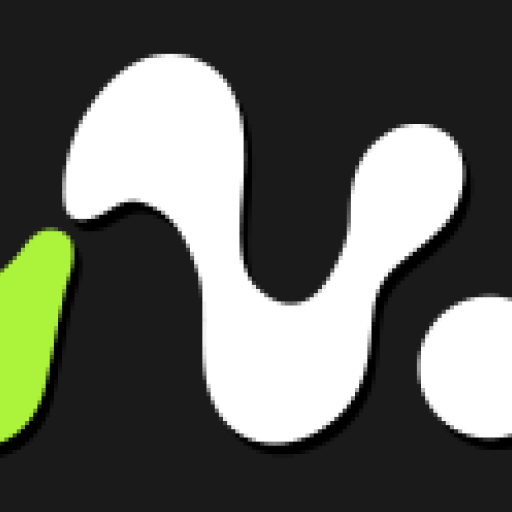
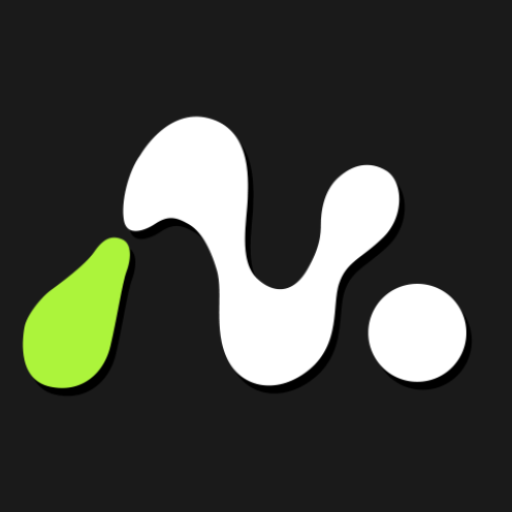
앱 아이콘 이미지 수정 / CustomChromeClient 추가

diff --git a/app/src/main/java/kr/co/menovel/component/CustomChromeClient.java b/app/src/main/java/kr/co/menovel/component/CustomChromeClient.java
@@ -1,0 +1,39 @@
+package kr.co.menovel.component;
+
+import android.content.Intent;
+import android.net.Uri;
+import android.os.Message;
+import android.webkit.WebChromeClient;
+import android.webkit.WebView;
+import android.webkit.WebViewClient;
+
+import kr.co.menovel.MainActivity;
+
+public class CustomChromeClient extends WebChromeClient {
+    private MainActivity act;
+
+    public CustomChromeClient(MainActivity act) {
+        this.act = act;
+    }
+
+    // 새창 외부 브라우저 열기
+    @Override
+    public boolean onCreateWindow(WebView view, boolean isDialog, boolean isUserGesture, Message resultMsg) {
+        WebView newWebView = new WebView(act);
+        view.addView(newWebView);
+        WebView.WebViewTransport transport = (WebView.WebViewTransport) resultMsg.obj;
+        transport.setWebView(newWebView);
+        resultMsg.sendToTarget();
+
+        newWebView.setWebViewClient(new WebViewClient() {
+            @Override
+            public boolean shouldOverrideUrlLoading(WebView view, String url) {
+                Intent browserIntent = new Intent(Intent.ACTION_VIEW);
+                browserIntent.setData(Uri.parse(url));
+                act.startActivity(browserIntent);
+                return true;
+            }
+        });
+        return true;
+    }
+}

diff --git a/app/src/main/java/kr/co/menovel/MainActivity.java b/app/src/main/java/kr/co/menovel/MainActivity.java
@@ -58,6 +58,7 @@ import java.util.HashMap;
 import java.util.Hashtable;
 import java.util.Map;
 
+import kr.co.menovel.component.CustomChromeClient;
 import kr.co.menovel.component.CustomWebViewClient;
 import kr.co.menovel.kakao.KakaoLoginCallback;
 import kr.co.menovel.kakao.KakaoSessionCallback;
@@ -121,6 +122,7 @@ public class MainActivity extends AppCompatActivity implements KakaoLoginCallbac
         webView.getSettings().setSupportMultipleWindows(true);
         webView.getSettings().setTextZoom(100);
         webView.setWebViewClient(new CustomWebViewClient(webView, layout_loading, layout_error_page));
+        webView.setWebChromeClient(new CustomChromeClient(this));
         webView.setLayerType(View.LAYER_TYPE_HARDWARE, null);
 
         String url = getIntent().getStringExtra("url");

diff --git a/app/src/main/java/kr/co/menovel/util/CommonUtil.java b/app/src/main/java/kr/co/menovel/util/CommonUtil.java
@@ -109,11 +109,11 @@ public class CommonUtil {
 
         if (uuid == null) {
             uuid = UUID.randomUUID().toString().replace("-", "");
-            Log.e("UUID", uuid);
             SharedPreferences.Editor editor = sharedPreferences.edit();
             editor.putString("uuid", uuid);
             editor.apply();
         }
+        Log.e("UUID", uuid);
         return uuid;
     }
 }
